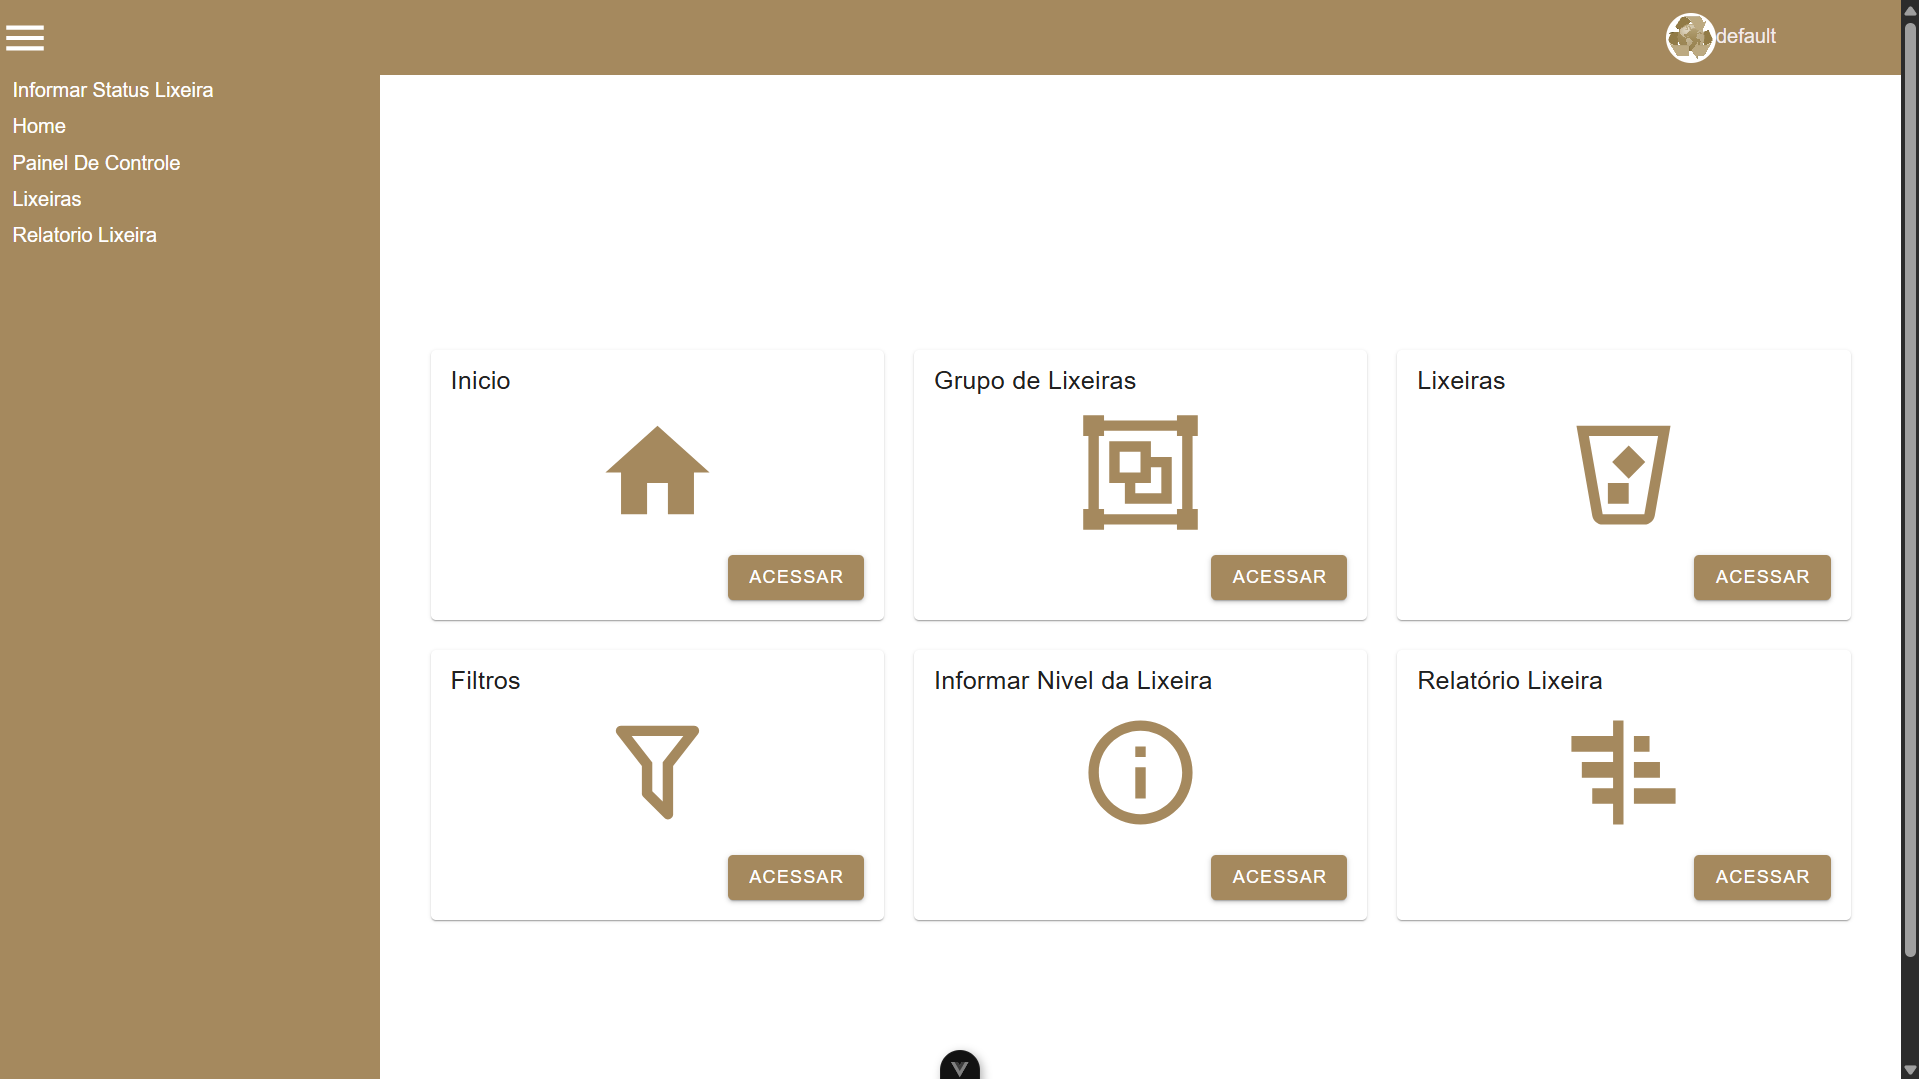
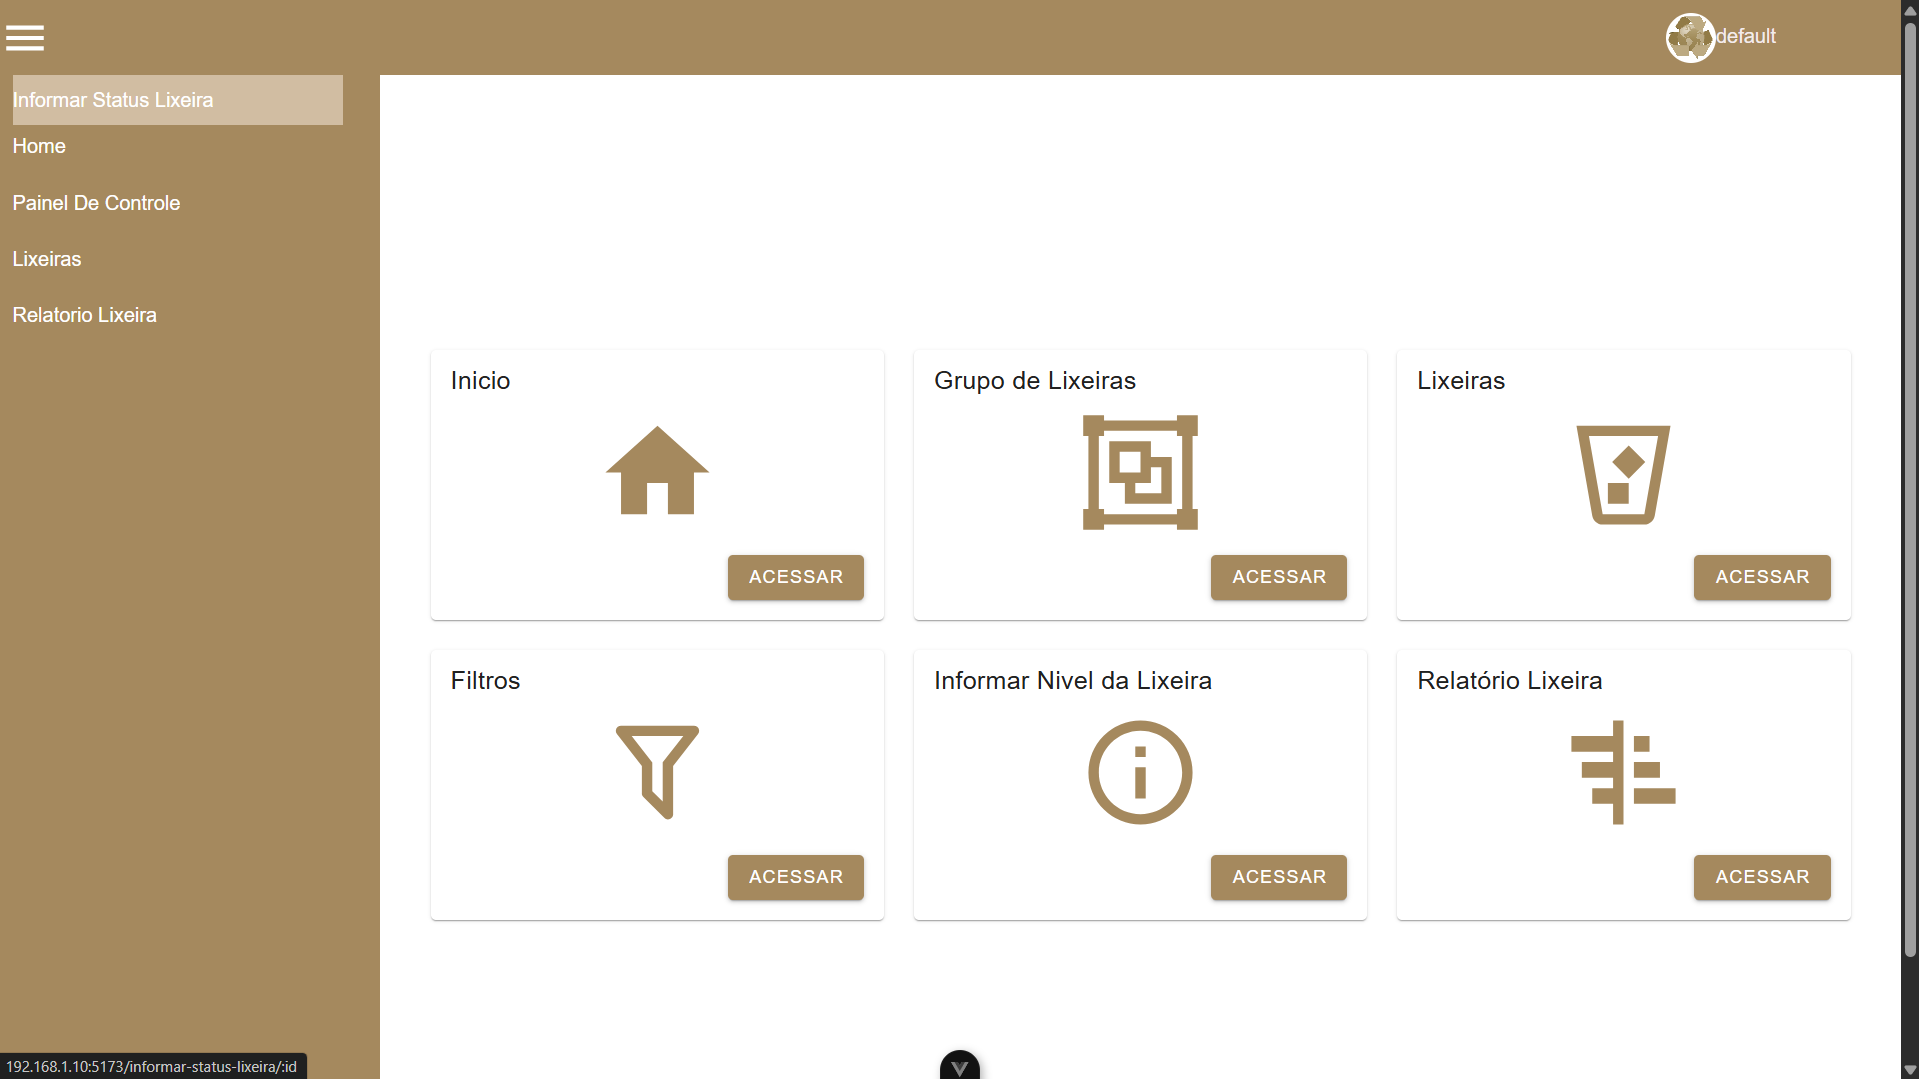
Adicionado responsividade no menu permitindo visualização dispositivos desktop/mobile

Changed region(s): [[0.0, 0.0612, 0.1845, 0.2447], [0.0, 0.9787, 0.1845, 1.0], [0.0, 0.2753, 0.0922, 0.3058]]

diff --git a/src/components/template/MenuLateral.vue b/src/components/template/MenuLateral.vue
@@ -18,11 +18,21 @@ const rotas = router.getRoutes().map((item) => ({ ...item, liMenu: item.name.rep
 
 </script>
 <style scoped>
-.menu-lateral {
-    width: 20%;
-    min-height: 100vh;
-    background-color: var(--btn-bg-primary-color);
+@media (max-width: 450px) {
+    .menu-lateral {
+        width: 100%;
+        background-color: var(--btn-bg-primary-color);
+    }
 }
+
+@media (min-width: 450px) {
+    .menu-lateral {
+        width: 20%;
+        min-height: 100vh;
+        background-color: var(--btn-bg-primary-color);
+    }
+}
+
 
 ul {
     margin-left: 10px;
@@ -31,6 +41,17 @@ ul {
 li {
     color: white;
     margin-bottom: 5px;
+    height: 40px;
+}
+
+li:hover {
+    display: flex;
+    flex-direction: row;
+    align-items: center;
+    cursor: pointer;
+    width: 90%;
+    height: 40px;
+    background-color: var(--btn-bg-secondary-color);
 }
 
 a {

diff --git a/src/App.vue b/src/App.vue
@@ -130,9 +130,13 @@ router.beforeEach(async (to, from, next) => {
 
 }
 
-.layout {
 
-  display: flex;
 
+@media (min-width: 450px) {
+  .layout {
+
+    display: flex;
+
+  }
 }
 </style>

diff --git a/src/components/template/MenuNavegacao.vue b/src/components/template/MenuNavegacao.vue
@@ -51,8 +51,8 @@ a {
 }
 
 .item:hover {
-    background-color: gray;
-    color: red;
+    background-color: var(--btn-bg-secondary-color);
+    color: white;
 }
 
 

diff --git a/src/views/AboutView.vue b/src/views/AboutView.vue
@@ -106,5 +106,6 @@ import { mdiChartGantt, mdiDeleteVariant, mdiFilterOutline, mdiGroup, mdiHome, m
 .icones {
 
   color: var(--btn-bg-primary-color);
+
 }
 </style>
